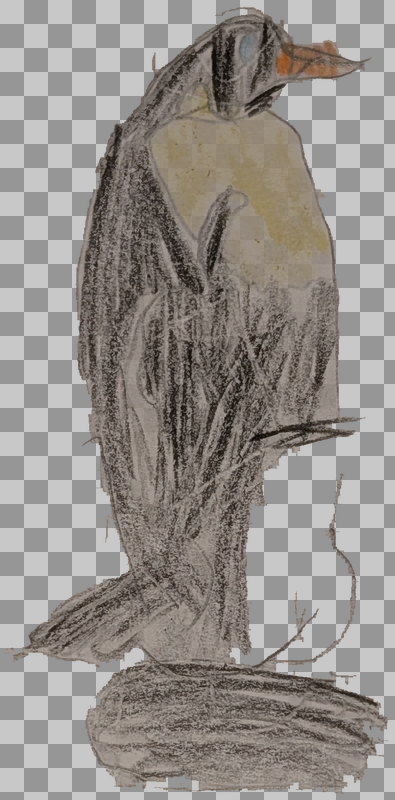
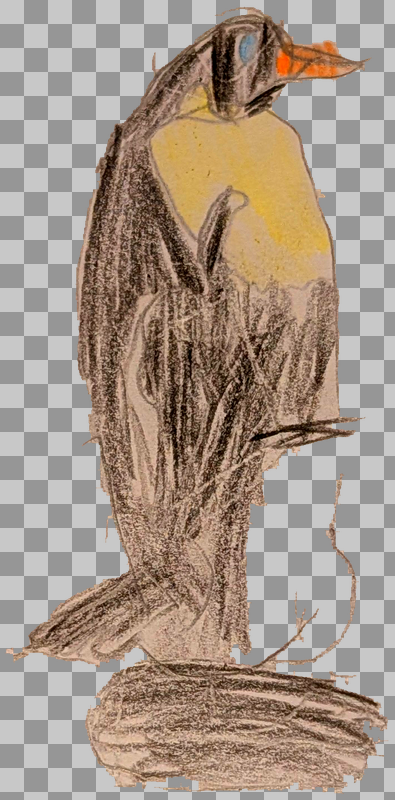
Stand Spiky upright and color both monsters in
- Rotate the spiky monster 90 degrees so he stands up instead of lying sideways
- Fill his enclosed line-art regions with green marker-style color
- Boost the penguin's saturation/contrast and make his body fully opaque

Claude-Session: https://claude.ai/code/session_01FwEGVqtBjhbHvqa9CgcyMt

diff --git a/tools/extract_sprites.py b/tools/extract_sprites.py
@@ -80,8 +80,25 @@ def extract_spiky() -> None:
 
     # Darken strokes a touch so faint pencil reads on screen.
     stroke = np.clip(rgb * 0.55, 0, 255).astype(np.uint8)
+
+    # "Color him in": seal small stroke gaps, find the enclosed inside of the
+    # figure, and fill it like a green marker (keeping the pencil lines dark).
+    solid = alpha > 60
+    closed = ndimage.binary_closing(solid, structure=np.ones((29, 29)))
+    filled = ndimage.binary_fill_holes(closed)
+    interior = filled & ~solid
+    fill_color = np.array([111, 191, 74], dtype=np.float32)  # monster green
+    for c in range(3):
+        ch = stroke[:, :, c].astype(np.float32)
+        ch[interior] = fill_color[c] * 0.92 + rgb[:, :, c][interior] * 0.08
+        stroke[:, :, c] = np.clip(ch, 0, 255).astype(np.uint8)
+    alpha = np.where(interior, 245, alpha).astype(np.uint8)
+
     rgba = np.dstack([stroke, alpha])
-    rgba = shrink(crop_to_content(rgba))
+    rgba = crop_to_content(rgba)
+    # The photo has him lying sideways (head to the left) - stand him up.
+    rgba = np.rot90(rgba, k=-1).copy()
+    rgba = shrink(rgba)
     Image.fromarray(rgba).save(f"{ROOT}/art/monster_spiky.png")
     checker_preview(rgba, f"{ROOT}/art/originals/preview_spiky.png")
     print("spiky:", rgba.shape)
@@ -112,7 +129,13 @@ def extract_penguin() -> None:
     alpha = (np.clip(alpha, 0, 1) * 255).astype(np.uint8)
     alpha = despeckle(alpha, min_px=4000)
 
-    stroke = np.clip(rgb * 0.8, 0, 255).astype(np.uint8)
+    # Punch up the colours so he pops on screen: more saturation + contrast,
+    # and make the body fully opaque.
+    mean = rgb.mean(axis=2, keepdims=True)
+    vivid = np.clip(mean + (rgb - mean) * 1.9, 0, 255)
+    vivid = np.clip((vivid - 128.0) * 1.18 + 118.0, 0, 255)
+    stroke = vivid.astype(np.uint8)
+    alpha = np.where(alpha > 150, 255, alpha).astype(np.uint8)
     rgba = np.dstack([stroke, alpha])
     rgba = shrink(crop_to_content(rgba))
     Image.fromarray(rgba).save(f"{ROOT}/art/monster_penguin.png")
